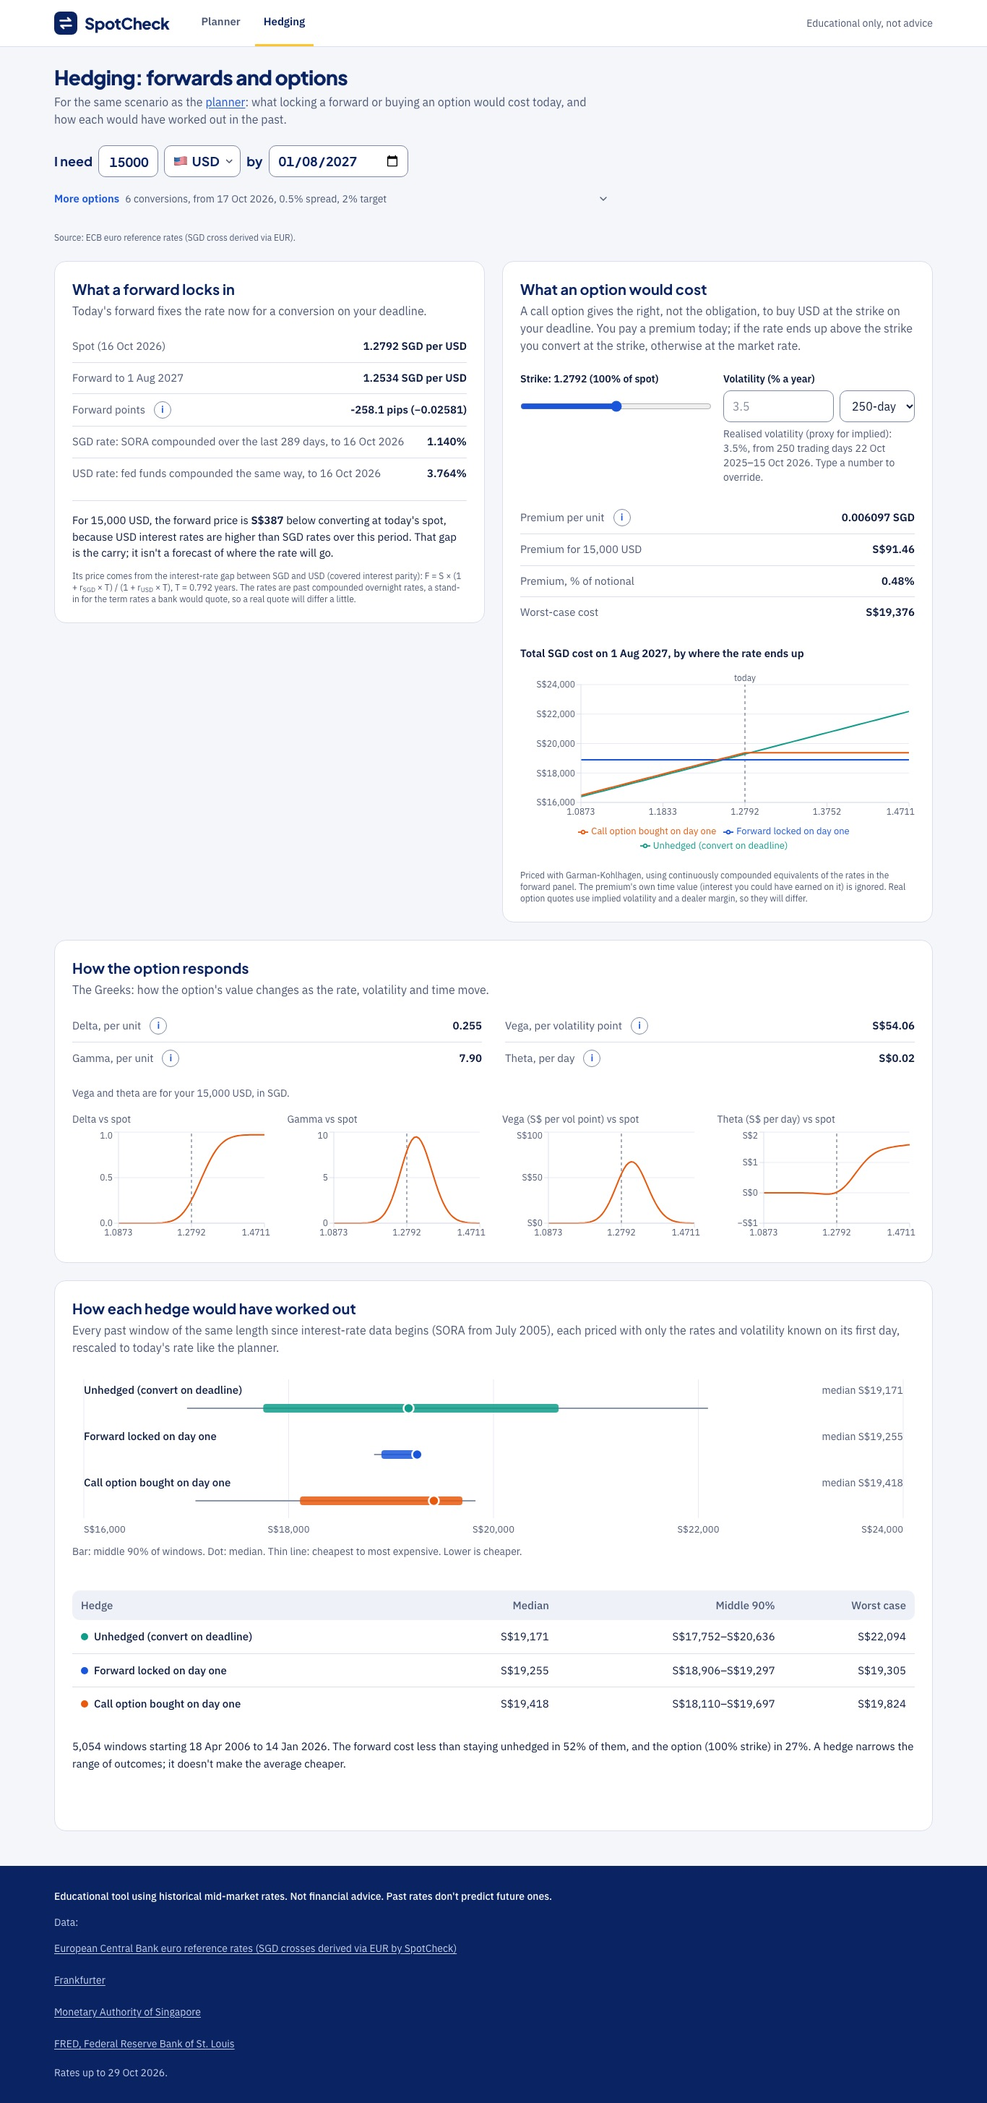
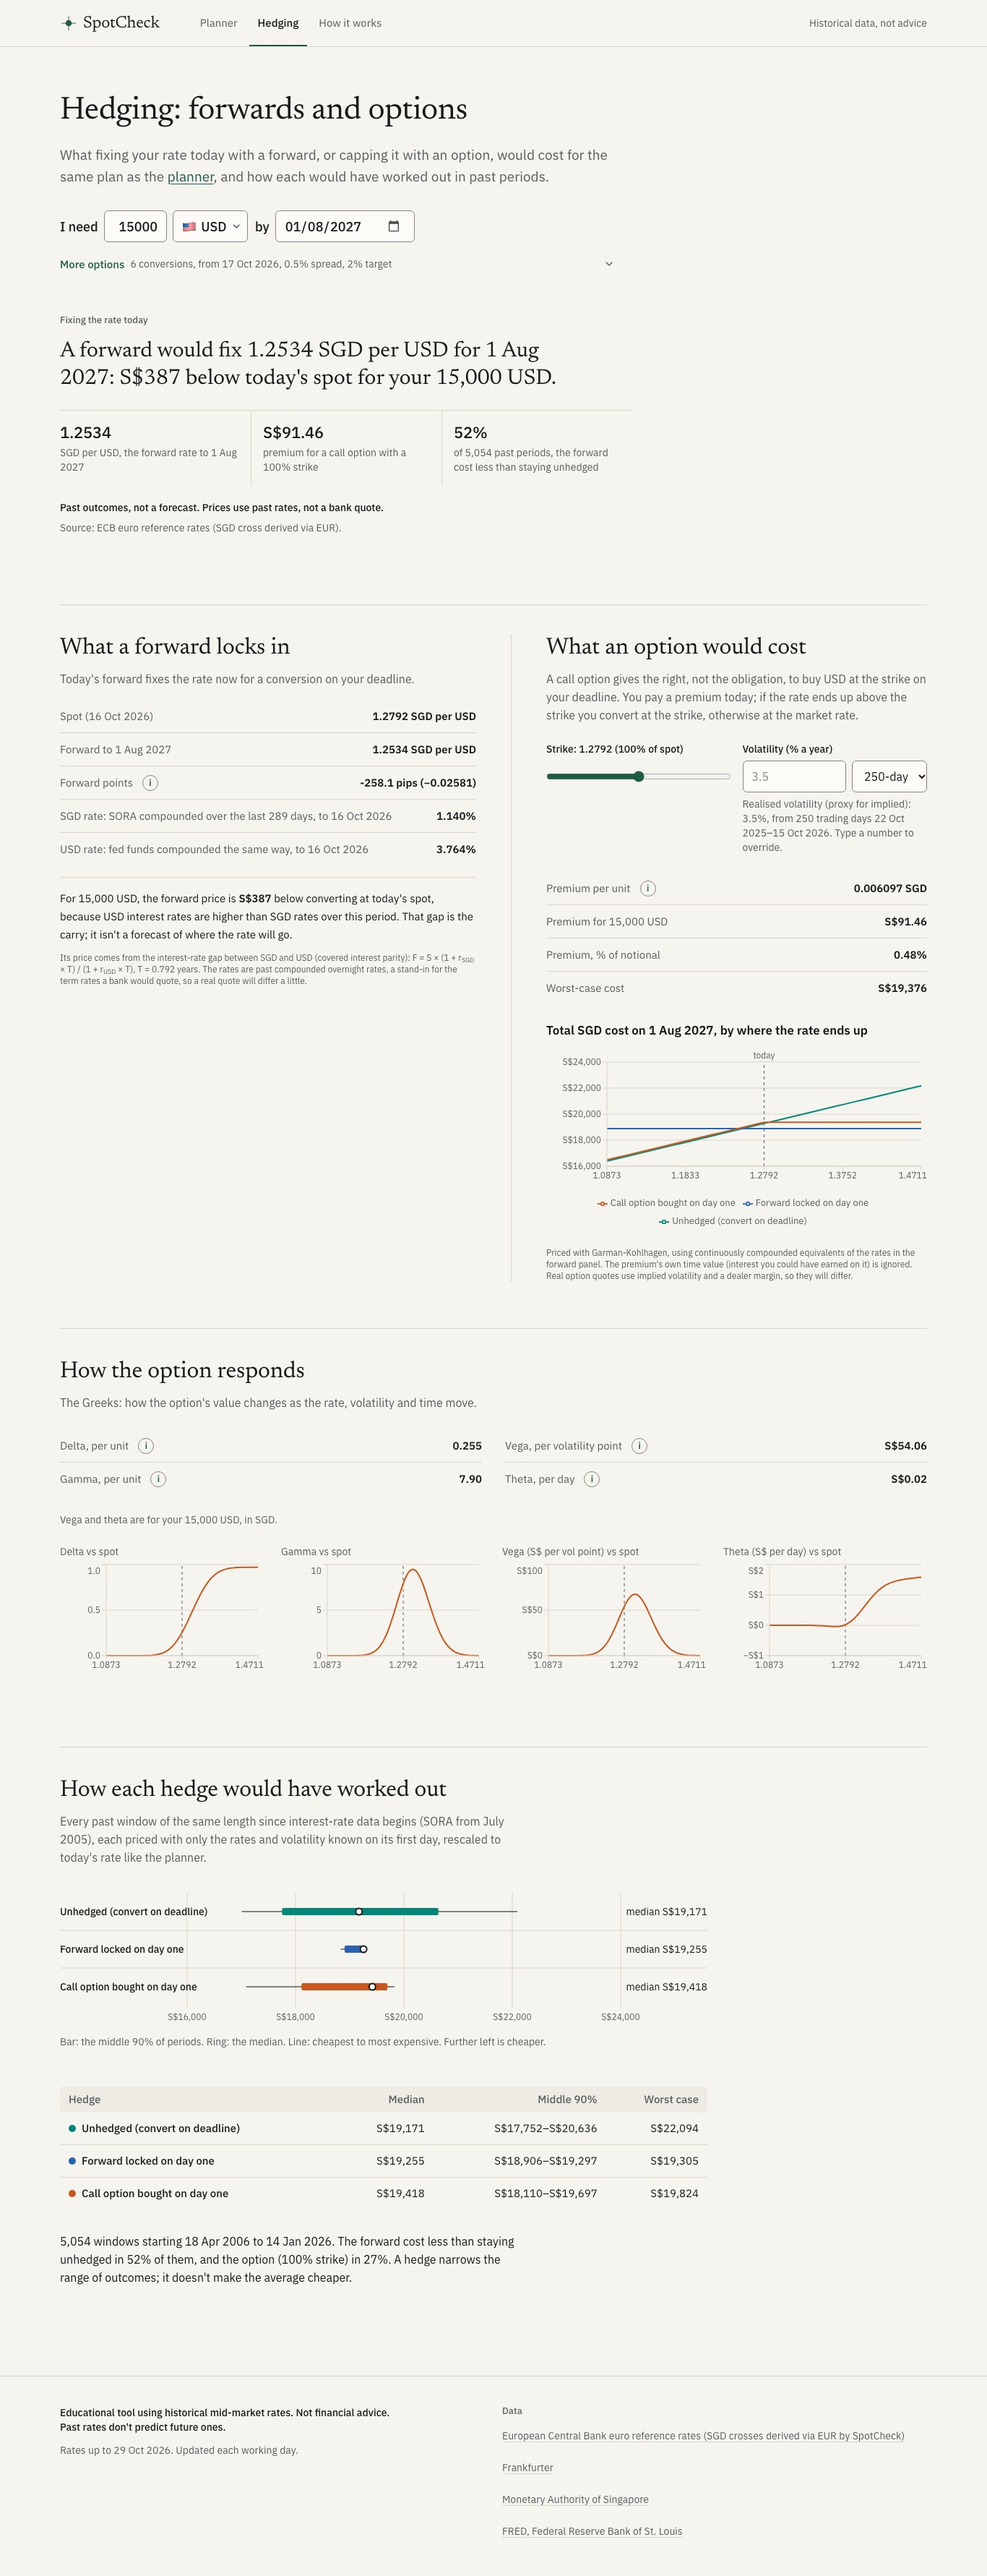
docs: editorial redesign screenshot loop, finals, parity, Lighthouse
Two rounds at 390x844 and 1366x768, light and dark, for all three pages,
plus interaction states; full-page finals; a side-by-side and field-by-field
comparison with the live site (identical); Lighthouse 92-98 performance and
100 accessibility; README screenshots of the new design.

diff --git a/docs/design/lighthouse.md b/docs/design/lighthouse.md
@@ -1,32 +1,37 @@
 # Lighthouse (mobile)
 
-Lighthouse 12.8.2, mobile form factor, simulated throttling (the default),
-headless Chromium, against the static build served with compression by
-`scripts/serve-out.ts`. Three runs per page on the final build of this
-branch, 31 Oct 2026.
+Lighthouse 12.8.2, mobile form factor, simulated throttling (the default), headless Chromium. Runs are against the static build, served with compression by `scripts/serve-out.ts`. Three runs per page on the final build of the editorial redesign, 31 Oct 2026.
 
-| Page    | Run | Performance | Accessibility | Best practices | SEO | FCP   | LCP   | TBT    | CLS |
-| ------- | --- | ----------- | ------------- | -------------- | --- | ----- | ----- | ------ | --- |
-| Planner | 1   | 90          | 100           | 100            | 100 | 1.1 s | 3.0 s | 230 ms | 0   |
-| Planner | 2   | 91          | 100           | 100            | 100 | 1.1 s | 3.2 s | 180 ms | 0   |
-| Planner | 3   | 91          | 100           | 100            | 100 | 1.1 s | 3.2 s | 170 ms | 0   |
-| Hedging | 1   | 91          | 100           | 100            | 100 | 1.1 s | 3.2 s | 170 ms | 0   |
-| Hedging | 2   | 91          | 100           | 100            | 100 | 1.1 s | 3.2 s | 180 ms | 0   |
-| Hedging | 3   | 92          | 100           | 100            | 100 | 1.1 s | 3.0 s | 170 ms | 0   |
+| Page         | Run | Performance | Accessibility | Best practices | SEO | FCP   | LCP   | TBT    | CLS |
+| ------------ | --- | ----------- | ------------- | -------------- | --- | ----- | ----- | ------ | --- |
+| Planner      | 1   | 92          | 100           | 100            | 100 | 0.8 s | 3.0 s | 190 ms | 0   |
+| Planner      | 2   | 93          | 100           | 100            | 100 | 0.8 s | 3.0 s | 140 ms | 0   |
+| Planner      | 3   | 93          | 100           | 100            | 100 | 0.8 s | 3.0 s | 140 ms | 0   |
+| Hedging      | 1   | 92          | 100           | 100            | 100 | 0.8 s | 3.0 s | 180 ms | 0   |
+| Hedging      | 2   | 92          | 100           | 100            | 100 | 0.8 s | 3.0 s | 180 ms | 0   |
+| Hedging      | 3   | 92          | 100           | 100            | 100 | 0.8 s | 3.0 s | 180 ms | 0   |
+| How it works | 1   | 98          | 100           | 100            | 100 | 0.8 s | 2.3 s | 20 ms  | 0   |
+| How it works | 2   | 98          | 100           | 100            | 100 | 0.8 s | 2.3 s | 20 ms  | 0   |
+| How it works | 3   | 98          | 100           | 100            | 100 | 0.8 s | 2.3 s | 20 ms  | 0   |
 
-For comparison, one run of the `main` build under the same conditions:
-Planner 93 / 100, Hedging 93 / 100 (performance / accessibility).
+For comparison, under the same conditions:
 
-Performance sits just above the 90 target, a point or two below `main`. The
-remaining gap is the larger first-load script (the planner's own chunk is
-146 KB against main's 161 KB, but shared chunks grew slightly) and the second
-font family. `docs/design/rounds/README.md` (round 3) lists what was changed
-to get here from 81–84 (Planner) and 59–60 (Hedging).
+- **`main` (the live site):** 93 on both pages.
+- **Direction A (PR #7):** Planner 90–91, Hedging 91–92.
 
-Extra checks run alongside, at 390×844 and 1366×768, light and dark, both
-pages:
+On every page the largest paint is static text: the question on the Planner, the lede on Hedging and How it works. It paints at about 0.75s on a throttled phone, before any script runs. The interactive parts load around it into placeholders of their measured size, so nothing moves.
 
-- **axe-core (WCAG 2.0–2.2 A/AA):** no violations, including colour contrast in dark mode, which Lighthouse doesn't test.
+What got here (details in `rounds-b/README.md`, round 2):
+
+- **Fonts:** one static weight of Newsreader, preloaded. The variable version with optical sizes was 129 KB on the critical path.
+- **Placeholder heights:** measured at ten widths from 360 to 1600px.
+- **Progress line:** two lines reserved for its message, so the line never grows mid-load.
+- **The progress dot:** animated with `transform`, not `left`.
+- **No prefetching:** none of the in-page links prefetch.
+
+Extra checks, at 390×844 and 1366×768, light and dark, on all three pages:
+
+- **axe-core (WCAG 2.0–2.2 A/AA):** no violations in any of the 12 combinations, including dark-mode contrast, which Lighthouse doesn't test.
 - **Tap targets:** every visible button, link, input and summary is at least 44×44px. The only exception is Base UI's 1×1 hidden form input, which isn't a control.
-- **Button styles:** the action buttons use exactly `.btn-primary` and `.btn-secondary`, with one primary per page (Copy link). Hedging has none.
-- **Layout shift:** CLS 0 on both pages, and a Playwright layout-shift observer recorded no shifts on the Planner and one of 0.0004 on Hedging.
+- **Button styles:** `.btn-primary` and `.btn-secondary` only. Copy link is the one primary on the Planner; Hedging and How it works have none.
+- **Horizontal scroll:** none at any of the ten measured widths.

diff --git a/docs/design/rounds-b/README.md b/docs/design/rounds-b/README.md
@@ -1,0 +1,46 @@
+# Screenshot loop: the editorial redesign
+
+Every round renders the real static build with Playwright at 390×844 (phone, 2× pixels) and 1366×768 (laptop), light and dark. Pages: the Planner, Hedging and How it works. The scenario is fixed: `?c=USD&a=15000&s=2026-10-17&d=2027-08-01&k=6&sp=0.5&t=2`. Names follow `{planner|hedging|how}-{phone|laptop}-{light|dark}.jpg`; each image is the first screen.
+
+| Folder             | State                                                         |
+| ------------------ | ------------------------------------------------------------- |
+| `0-before/`        | Direction A (PR #7), the starting point: no How it works page |
+| `1-first-build/`   | First render of the new system                                |
+| `2-after-round-1/` | After round 1's fixes                                         |
+| `3-final/`         | After round 2's fixes and the performance pass                |
+| `states/`          | Interaction states of the final build (see below)             |
+
+Full-page captures of the final build are in `../final/`. In full-page phone captures, the fixed bottom tab bar appears part-way down the page; that's an artefact of stitching, not the layout.
+
+## Round 1: `1-first-build` → `2-after-round-1`
+
+What was off:
+
+- **Metric 3 of the result** read "S$0.00 lower worst-case cost than waiting". Target rate falls back to waiting, so their worst cases are equal; comparing with a different strategy than the other two figures also risked a flattering comparison. All three figures now compare the same pair. A gap that rounds to nothing reads "Same".
+- **The amount field** clipped "15000": its width ignored the padding.
+- **Phone:** the question, a four-line lede and the converter filled the first screen, so the answer started below it. The phone display size went from 40 to 36px and the lede was cut to one sentence; the answer headline now starts on the first screen.
+- **How it works:** "How the replay works" had a subsection with the same title. The section is now "The method".
+- **Recharts legends** coloured their text in the series colour, against the rule that text stays in ink. They are now muted ink beside a coloured marker.
+
+## Round 2: `2-after-round-1` → `3-final`
+
+What was off:
+
+- **Lighthouse mobile:** Planner and Hedging scored 86–87 with first paint at 1.5s. The cause was the serif: Newsreader with its optical-size axis is a 129 KB file on the critical path for the headline. One static weight of it is a fraction of that. Preloaded, it brought first paint to 0.8s and the scores to 92–93 (Planner), 92 (Hedging) and 98 (How it works).
+- **Phone:** the timeline reserved 368px for a 320px block. Its placeholder heights are now measured: 320px on phones, 336px from 640px.
+- **Layout shift (0.005):**
+  - The "Converting it all today" row was 6px taller while loading, because the empty skeleton block sat on a different baseline from the figure. The placeholder now has invisible text of the same shape.
+  - On phones, "Checking 6,922 comparable past periods…" wraps to two lines where "Loading the rate history…" fits on one, so the line grew mid-load. Two lines are now reserved.
+  - The progress dot animated `left`, which the browser counts as layout movement every frame. It now animates `transform`.
+- **Converter and result:** their resting heights at 360, 390, 412, 700, 1024, 1366 and 1600px were measured and set as the loading placeholders' minimums, so the planner doesn't move when it loads.
+- **Dark mode:** the date field's calendar icon had vanished. The browser already lightens it, and an extra invert filter darkened it again; the filter is gone.
+
+## `states/`
+
+- `timeline-hover-*`: the spot cursor, with the tooltip giving each strategy's cost for the period under the pointer and the difference behind the headline.
+- `timeline-legend-*`: hovering a legend item dims the other strategies.
+- `evidence-hover-*`: hovering a chart row dims the others and spells the row out in words underneath.
+- `currency-search`: "korea" finds KRW.
+- `more-options`: the disclosure open.
+- `progress-*`: the progress state ("Checking 6,922 comparable past periods…"). The number is counted from the data before the replay runs.
+- `phone-timeline`: the timeline on a phone, with the summary bar pinned to the top.

diff --git a/docs/design/parity/README.md b/docs/design/parity/README.md
@@ -1,17 +1,11 @@
 # Numbers parity: main vs the redesign
 
-The redesign changes no calculation, so every figure must match the current
-site exactly. It was checked twice, with the same script and scenarios:
-
-1. **Local builds:** a static build of `main` at `48f790c` (built in a
-   separate worktree) against this branch, both on the same committed data
-   (`diff -r data/` shows no differences).
-2. **Deployed sites:** the live site, https://spotcheck-7qb.pages.dev (built
-   from `main`), against this branch's Cloudflare preview,
-   https://redesign-a.spotcheck-7qb.pages.dev. Both show "Rates up to
-   29 Oct 2026".
-
-Both comparisons came out identical.
+Neither redesign changes a calculation, so every figure must match the live
+site exactly. For the editorial redesign (this version of the file), the live
+site, https://spotcheck-7qb.pages.dev (built from `main`), was compared with
+a local build of the branch, on the same data: both show "Rates up to
+29 Oct 2026". Direction A was checked the same way earlier, against a local
+build of `main` and against its Cloudflare preview.
 
 `parity.json` holds the result for three scenarios:
 
@@ -21,7 +15,8 @@ Both comparisons came out identical.
 | JPY 500,000 by 1 Mar 2027, 4 conversions, 1% spread, 3% target  | identical | not applicable (USD only)                                                                  |
 | EUR 8,000 by 1 Jun 2027, 3 conversions, 0.75% spread, 2% target | identical | not applicable (USD only)                                                                  |
 
-"Planner" compares, as text:
+"Planner" compares, as text (the summary paragraph by paragraph, since the
+redesign gives it a heading of its own):
 
 - every strategy's median, 5th and 95th percentile (from the chart rows' labels);
 - the whole plain-English summary;

diff --git a/docs/design/rounds/README.md b/docs/design/rounds/README.md
@@ -18,10 +18,9 @@ above it and its "after" is the folder below it:
 | `4-final/`         | After round 3 (performance and accessibility) |
 
 File names: `{planner|hedging}-{phone|laptop}-{light|dark}.jpg` (the visible
-viewport, i.e. what is above the fold). Full-page captures of the final build
-are in `../final/`. In full-page phone captures the fixed bottom tab bar
-appears part-way down the page; that's an artefact of stitching, not the
-layout.
+viewport, i.e. what is above the fold). Full-page captures of Direction A's final build are in this file's git
+history (commit `fc36be9`, `docs/design/final/`). That folder now holds the
+current design; its own loop is in `../rounds-b/`.
 
 ## Round 1: `1-first-build` → `2-after-round-1`
 
